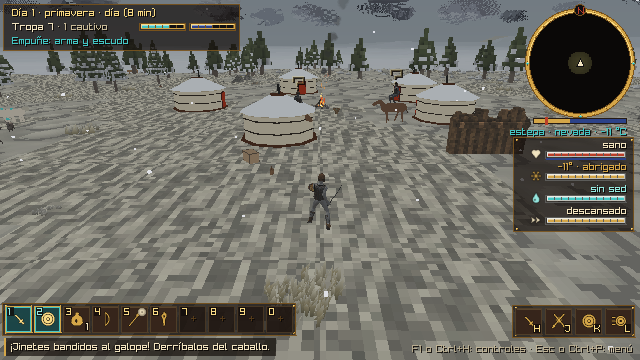
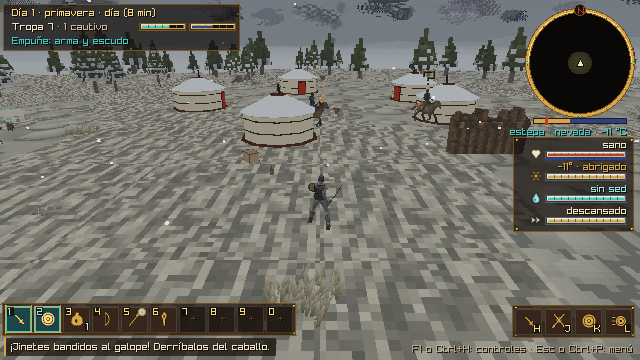
Los jinetes enemigos, en la silla de su caballo
Con la pose de montar nueva (los pies en los estribos), los bandidos a caballo quedaban de pie sobre el lomo del caballo de capsulas, a la altura vieja. Ahora montan el caballo estepario con su modelo (al paso, al trote o al galope segun su velocidad), con la silla en su hueso asiento y la pelvis del jinete ahi, como el jugador (draw_enemy_mount; fg_draw_saddle). El de capsulas queda de respaldo si el caballo no tiene modelo. Los golpes y las flechas siguen a la altura de siempre (unos 0.2 m por encima de la pelvis que se ve).

Claude-Session: https://claude.ai/code/session_01LSTD6iWnn2bnoyhKZ9wkd2

diff --git a/src/game/combat_game.c b/src/game/combat_game.c
@@ -53,6 +53,7 @@
 #define MOUNT_WEIGHT 80.0f    // kg que suma la montura contra derribos
 #define GALLOP_SPEED 6.0f     // m/s: por encima, la lanza derriba y se arrolla
 #define RIDER_LIFT 1.1f       // altura del jinete sobre el suelo
+#define ENEMY_HORSE_ID "animal.montura.caballo_estepario" // el caballo de los jinetes enemigos (con silla y asiento)
 #define LOOT_MAX 16
 #define CHARIOT_TURN 1.3f     // rad/s: el carro gira abierto
 #define CHARIOT_LIFT 0.8f     // la plataforma del carro: alli van el conductor y el arquero
@@ -2923,6 +2924,23 @@ void cb_draw_horse(Vector3 pos, float yaw, float speed, float time, bool hit) {
     }
 }
 
+// El caballo de un jinete enemigo con su modelo (al paso, al trote o al galope, segun su velocidad) y la silla en su
+// hueso asiento (tools/modelos/rigs.py), como la montura del jugador. seat: donde va la pelvis del jinete. false si el
+// caballo no tiene modelo o asiento (el que llama dibuja el de capsulas).
+static bool draw_enemy_mount(Props *props, const GameActions *ga, const Enemy *e, int i, float time, Vector3 *seat) {
+    static AnimTrack tracks[CB_MAX_ENEMIES]; // el arranque del paso de cada caballo
+    const InvItem *horse = inventory_find(ga->inv, ENEMY_HORSE_ID);
+    if (!horse || !props_has_model(props, horse)) return false;
+    const char *gait = e->speed > 0.2f ? anim_quadruped_fight(e->speed, false, false, false) : "montado_idle";
+    float yaw = e->ride_yaw - PI / 2.0f, tt = time + (float)i * 0.53f; // el modelo mira a +X
+    AnimTrack *tr = &tracks[i % CB_MAX_ENEMIES], now = *tr;
+    if (!now.clip || strcmp(now.clip, gait) != 0) now = (AnimTrack){ gait, tt, 1.0f, 0.0f }; // como props_draw_item_track
+    if (!props_bone_point(props, horse, e->pos, yaw, &now, tt, "asiento", seat)) return false;
+    props_draw_item_track(props, horse, e->pos, yaw, gait, tt, 0.0f, tr);
+    fg_draw_saddle(ga, props, *seat, yaw);
+    return true;
+}
+
 static void draw_shot(const Shot *s) {
     V3 d = s->stuck ? s->dir : s->p.vel;
     float l = sqrtf(d.x * d.x + d.y * d.y + d.z * d.z);
@@ -3031,13 +3049,16 @@ void cb_draw_world(const Combat *cb, Props *props, const GameActions *ga, const 
         Vector3 at = e->pos;
         bool struggling = e->state == EN_ICE; // en el agua helada: se agita
         if (struggling) at.y += 0.07f * sinf(time * 5.0f + (float)i);
-        if (e->mounted && !dead) { // a caballo: el jinete va encima
-            cb_draw_horse(e->pos, e->ride_yaw, e->speed, time + (float)i, e->hit_anim > 0.0f);
-            at.y += RIDER_LIFT;
-        }
         const InvItem *base = inventory_find(ga->inv, "personaje.base.cuerpo_comun"); // el cuerpo humano estandar
-        bool own = props_has_model(props, it);
-        if (own || (base && props_has_model(props, base))) {
+        bool own = props_has_model(props, it), modeled = own || (base && props_has_model(props, base));
+        Vector3 seat; // a caballo, con modelo: donde va su pelvis, en la silla de su caballo
+        bool seated = false;
+        if (e->mounted && !dead) { // a caballo: el jinete va encima
+            seated = modeled && draw_enemy_mount(props, ga, e, i, time, &seat);
+            if (!seated) cb_draw_horse(e->pos, e->ride_yaw, e->speed, time + (float)i, e->hit_anim > 0.0f);
+            at.y += RIDER_LIFT; // en la silla, lo cambia la pelvis en el asiento (abajo)
+        }
+        if (modeled) {
             HumanoidState hs = { .moving = e->speed > 0.2f, .running = e->speed > 3.5f, .grounded = true, .doing = -1,
                                  .mounted = e->mounted && !dead,
                                  .building = -1, .dead = dead, .down = downed, .hit = e->hit_anim > 0.0f || struggling,
@@ -3050,6 +3071,13 @@ void cb_draw_world(const Combat *cb, Props *props, const GameActions *ga, const 
             const char *clip = anim_humanoid(&hs);
             static AnimTrack tracks[CB_MAX_ENEMIES]; // el arranque del clip de cada uno (morir queda en su ultimo cuadro)
             float tt = time + (float)i * 0.31f;
+            if (seated) { // la pelvis en el asiento, como el jugador (ga_draw_player): sube y baja con el lomo
+                AnimTrack tr = tracks[i % CB_MAX_ENEMIES];
+                if (!tr.clip || strcmp(tr.clip, clip) != 0) tr = (AnimTrack){ clip, tt, 1.0f, 0.0f };
+                Vector3 pelvis;
+                if (props_bone_point(props, own ? it : base, (Vector3){ 0.0f, 0.0f, 0.0f }, e->yaw - PI / 2.0f, &tr, tt, "pelvis", &pelvis))
+                    at = Vector3Subtract(seat, pelvis);
+            }
             Color light = props_get_tint(), cloth = enemy_colors(e->kind, e->hit_anim > 0.0f).cloth;
             if (!own) props_set_tint(ColorTint(light, (Color){ (unsigned char)(96 + cloth.r * 5 / 8), (unsigned char)(96 + cloth.g * 5 / 8),
                                                               (unsigned char)(96 + cloth.b * 5 / 8), 255 }));

diff --git a/src/game/fauna_game.h b/src/game/fauna_game.h
@@ -39,6 +39,9 @@ bool fg_mount_winded(void);
 // Donde va la pelvis del jinete en este cuadro: el hueso asiento de la montura (tools/modelos/rigs.py), con su clip,
 // sobre la silla. false si no va montado o su modelo no tiene asiento.
 bool fg_mount_seat(const GameActions *ga, Props *props, const Terrain *t, float time, Vector3 *seat);
+// La silla de montar en un asiento (seat: donde va la pelvis del jinete; yaw: el del modelo de la montura, que mira a +X).
+// false si la silla no tiene modelo.
+bool fg_draw_saddle(const GameActions *ga, Props *props, Vector3 seat, float yaw);
 // Sexo y lo heredado de un animal, para leer: «hembra · velocidad +12 % · aguante −3 %».
 const char *fg_traits_text(const Animal *a);
 

diff --git a/src/game/fauna_game.c b/src/game/fauna_game.c
@@ -999,6 +999,10 @@ static bool draw_saddle(Props *props, const InvItem *saddle, Vector3 seat, float
     return true;
 }
 
+bool fg_draw_saddle(const GameActions *ga, Props *props, Vector3 seat, float yaw) {
+    return draw_saddle(props, inventory_find(ga->inv, SADDLE_ID), seat, yaw);
+}
+
 void fg_draw_world(const GameActions *ga, Props *props, const Terrain *t, float time) {
     for (int i = 0; i < GA_MAX_SWARMS; i++) {
         const Swarm *s = &ga->swarms[i];
